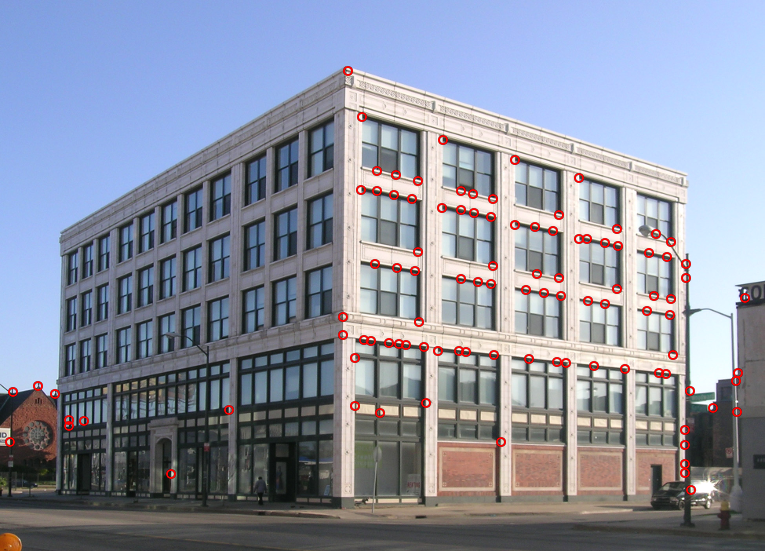
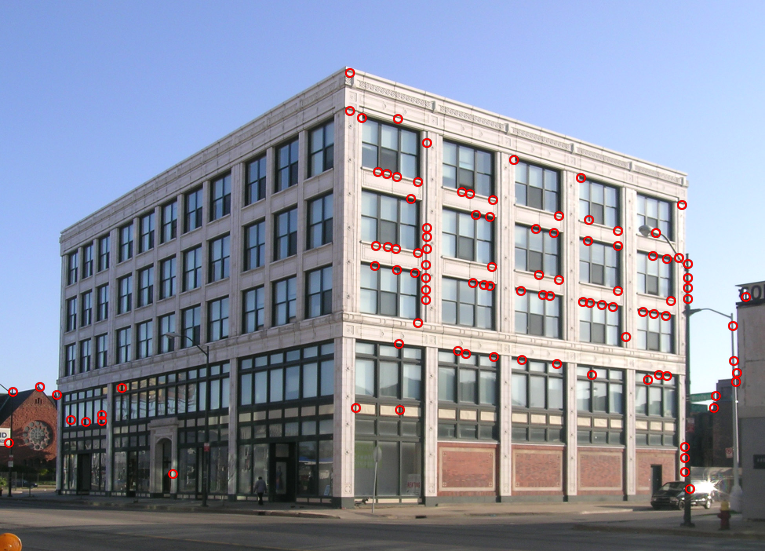
Updated example.

diff --git a/examples/features/README.md b/examples/features/README.md
@@ -53,20 +53,34 @@ After the response matrix is estimated and filtered, we can call ```extractCorne
 auto harrisCorners = extractCorners(harrisResponse, 100, 0.);
 ```
 
-After the extraction, we draw corners by using dummy function (which will hopefully be replaced in plot module with a proper one), and save the responses and the drawn corners to the file system, in the result folder:
+After the extraction, we plot and save extracted corners:
 
 ```d
-harrisDraw.drawCorners(harrisCorners, 9, cast(ubyte[])[255, 0, 0]);
+auto xs = corners.map!(v => v[1]);
+auto ys = corners.map!(v => v[0]);
 
-harrisResponse
-  .byElement 
-  .ranged(0., 255.) // scale the value range so it fits 0-255, for the preview.
-  .array
-  .sliced(harrisResponse.shape)
-  .asType!ubyte // convert image (or the slice of an image data) from float to ubyte 
-  .imwrite("result/harrisResponse.png");
+auto aes = Aes!(typeof(xs), "x", typeof(ys), "y", bool[], "fill", string[], "colour")(xs, ys,
+        false.repeat(xs.length).array, "red".repeat(xs.length).array);
 
-harrisDraw.imwrite("result/harrisCorners.png");
+auto gg = GGPlotD().put(geomPoint(aes));
+
+// plot corners on the same figure, and save it's image to disk.
+slice.plot(gg, windowName).image().imwrite("result/" ~ windowName ~ ".png");
+```
+
+... And process the response for easier visualization, then save it to *result* folder:
+
+```d
+harrisResponse 
+    // Scale values to fit 0-255 range,
+    .byElement
+    .ranged(0., 255.).array.sliced(harrisResponse.shape).asType!ubyte
+    // .. show the window,
+    .imshow(windowName) 
+    .image
+    // ... but also write it to disk.
+    .imwrite("result/" ~ windowName ~ ".png");
+
 ```
 
 So the response result image looks like:
